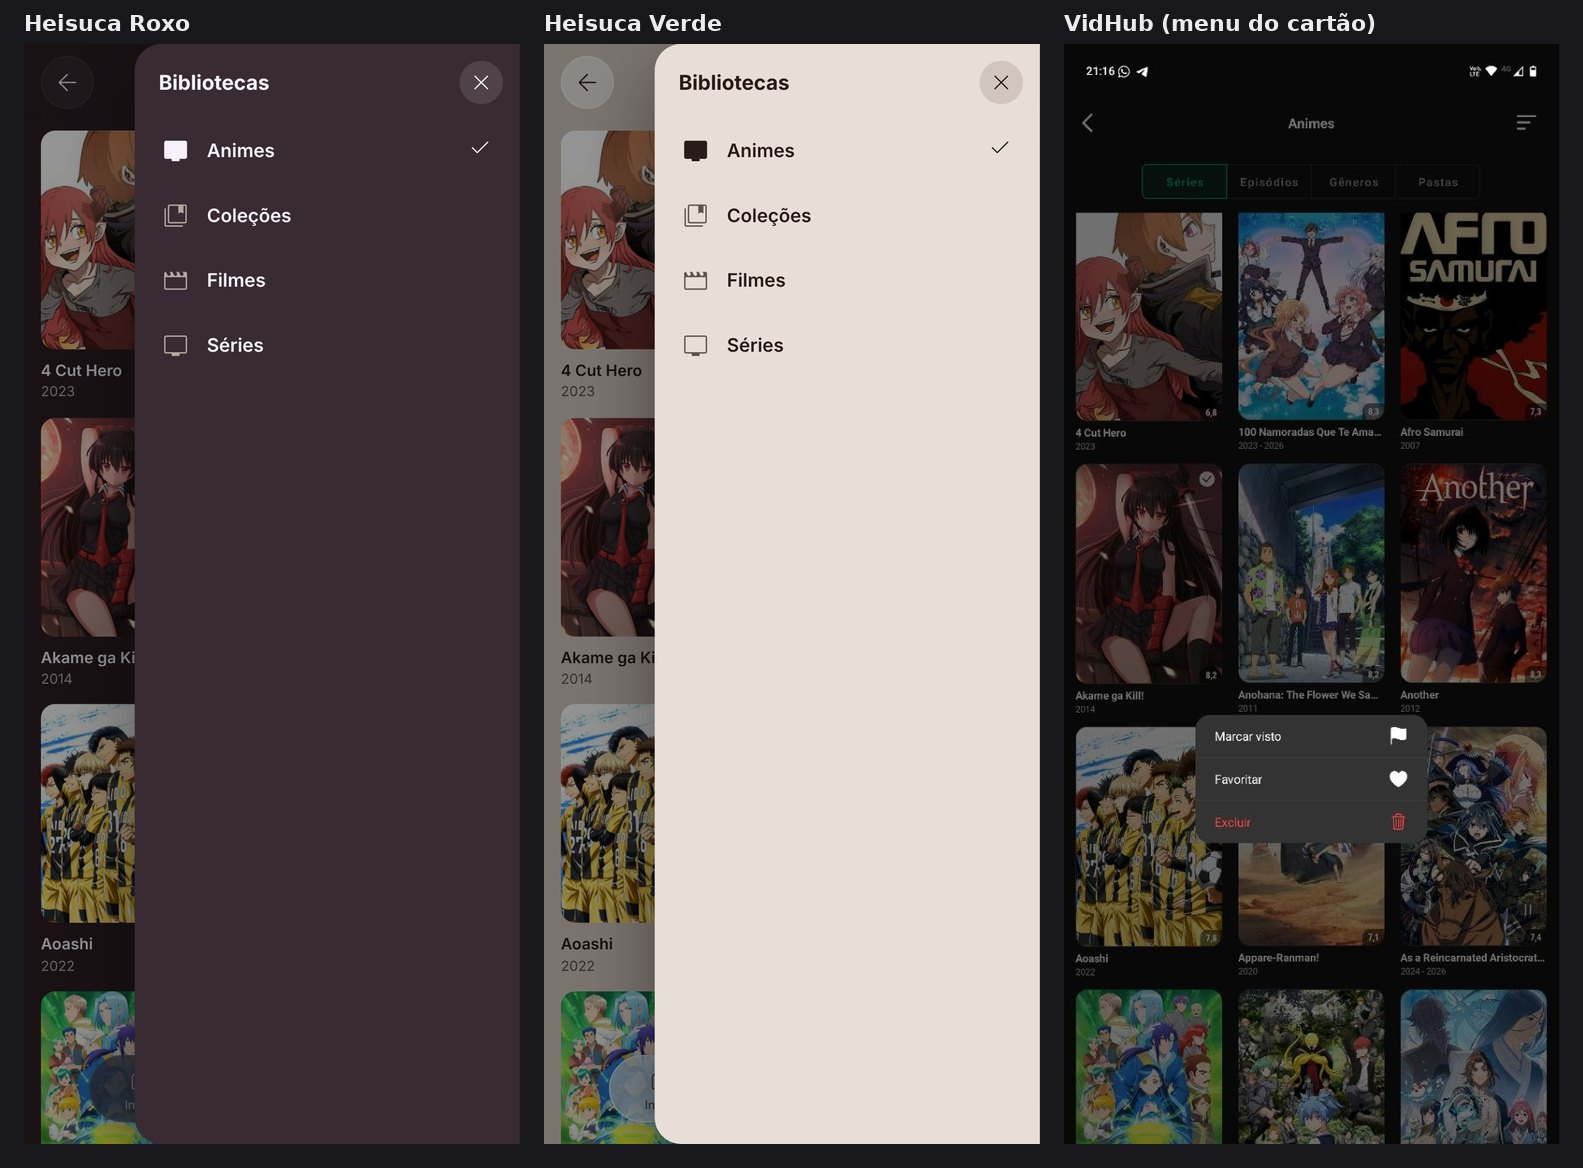
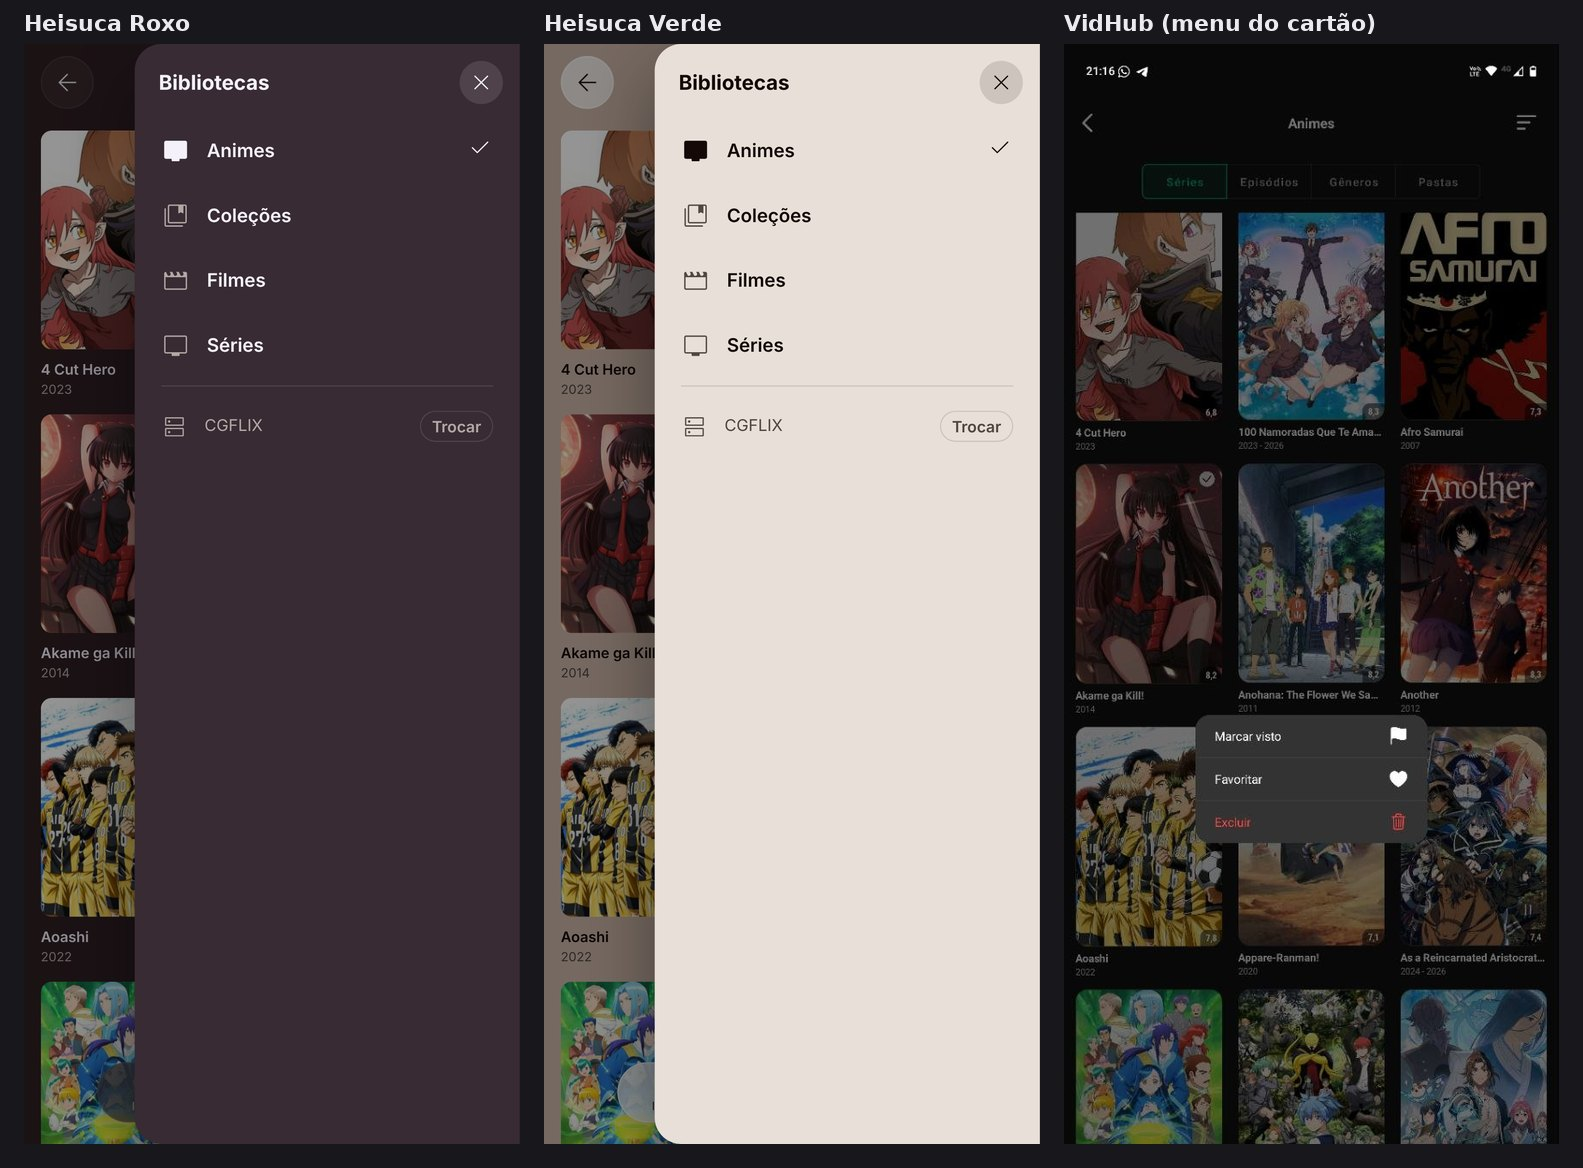
Site v2 (C): menu lateral da Biblioteca termina com o servidor atual e Trocar
Pedido do Caio (18/10): a Biblioteca abriga as bibliotecas e a troca de servidor.
A linha abre o Trocar servidor da fundação (abrirServidores).

Claude-Session: https://claude.ai/code/session_012Kski8vuAybihC8nTxmTeD

diff --git a/apps/web/src/telas/Biblioteca.tsx b/apps/web/src/telas/Biblioteca.tsx
@@ -8,6 +8,7 @@ import { usePaleta } from '../cor/paleta';
 import { CartaoPoster, EsqueletoCartoes } from '../comp/Cartoes';
 import { Folha } from '../comp/Folha';
 import { Icone } from '../comp/Icone';
+import { abrirServidores } from '../estado/casca';
 import { irAba, irTitulo, lembrarBiblioteca, ultimaBiblioteca, voltar } from '../rota';
 import './biblioteca.css';
 
@@ -55,6 +56,16 @@ export function Biblioteca({ s, id }: { s: Sessao; id?: string }) {
               </button>
             </li>
           ))}
+          {/* por último, discreto: o servidor atual e "Trocar" (Caio 18/10: a Biblioteca abriga as libs e a troca de servidor) */}
+          <li><hr class="separador" /></li>
+          <li>
+            <button class="opcao-linha biblioteca-servidor" onClick={() => { setMenu(false); setTimeout(abrirServidores, 220); }}
+              aria-label={`Servidor ${s.nomeServidor || ''}. Trocar de servidor`}>
+              <Icone nome="dns" tamanho={22} />
+              <span class="opcao-texto"><small class="uma-linha">{s.nomeServidor || 'Servidor'}</small></span>
+              <span class="biblioteca-trocar">Trocar</span>
+            </button>
+          </li>
         </ul>
       </Folha>
     </main>

diff --git a/apps/web/src/telas/biblioteca.css b/apps/web/src/telas/biblioteca.css
@@ -12,6 +12,9 @@
 .biblioteca-sentinela { height: 1px; }
 .biblioteca-menu .opcao-linha .icone { color: var(--hs-texto-2); }
 .biblioteca-menu .opcao-linha[aria-current] .icone { color: var(--hs-texto); }
+.biblioteca-servidor { min-height: 46px; }
+.biblioteca-servidor .opcao-texto small { font-size: 13.5px; }
+.biblioteca-trocar { font-size: 13px; font-weight: 600; color: var(--hs-texto-2); padding: 4px 10px; border-radius: var(--hs-raio-total); box-shadow: inset 0 0 0 1px var(--hs-linha); }
 @media (min-width: 600px) {
   .biblioteca-topo { grid-template-columns: 44px 1fr 44px; }
   .biblioteca-topo h1 { font-size: 19px; }

diff --git a/apps/web/testes/prints_c.py b/apps/web/testes/prints_c.py
@@ -29,6 +29,7 @@ CENAS = [
     ("alien_topo", f"#/t/{ALIEN}", []),
     ("biblioteca", f"#/b/{ANIMES}", []),
     ("biblioteca_menu", f"#/b/{ANIMES}", [("clicar", ".biblioteca-topo .redondo:last-child")]),
+    ("biblioteca_trocar", f"#/b/{ANIMES}", [("clicar", ".biblioteca-topo .redondo:last-child"), ("clicar", ".biblioteca-servidor"), ("esperar", 0.6)]),
     ("biblioteca_rolada", f"#/b/{ANIMES}", [("rolar", 99999), ("esperar", 1.5), ("rolar", 99999)]),
     ("biblioteca_sem_id", "#/b", []),
 ]

diff --git a/apps/web/relatorios/c.md b/apps/web/relatorios/c.md
@@ -26,6 +26,8 @@
 
 **Biblioteca** (`src/telas/Biblioteca.tsx`, `biblioteca.css`), rota `#/b/<id>`:
 - Topo `← | nome | ☰`; o ☰ abre o **menu lateral direito** com as bibliotecas de vídeo (ícone por tipo, ✓ na atual) e troca direto.
+- O menu lateral termina com uma linha discreta do servidor atual (`dns` + nome que o servidor informa + "Trocar"), que abre o
+  "Trocar servidor" da fundação (`abrirServidores()`), conforme o pedido do Caio de 18/10 repassado pela sessão principal.
 - Sem abas e sem ordenar/filtrar: ordem alfabética (`daBiblioteca`). Grade 2:3 em 3 colunas no celular, `auto-fill` no
   computador (8 colunas a 1440 px); nota, ✓ visto, título + anos (o `CartaoPoster` da fundação, com botão direito).
 - Carrega de 60 em 60 ao rolar (IntersectionObserver com folga de 900 px); para no total ou numa página vazia/curta.
@@ -41,7 +43,7 @@
   - `cel_titulo_topo.jpg` (× `vidhub/…foto42`), `cel_titulo_rolado.jpg` (× `…foto43`), `cel_titulo_temporada.jpg`
     (seletor aberto, Deadwood e One Piece × o reprovado `…foto72`), `cel_titulo_baixo.jpg` (elenco/Info mídia × `…foto71`),
     `cel_titulo_outros.jpg`, `cel_titulo_filme_colecao.jpg`, `cel_titulo_vertudo.jpg`;
-  - `cel_biblioteca.jpg` (× `…foto50`), `cel_biblioteca_menu.jpg` (menu lateral × `…foto51`);
+  - `cel_biblioteca.jpg` (× `…foto50`), `cel_biblioteca_menu.jpg` (menu lateral × `…foto51`), `cel_biblioteca_trocar.jpg` (linha do servidor e o Trocar servidor aberto);
   - `desk_{roxo,verde}_*.jpg`: título topo, rolado, temporada aberta, baixo, filme, coleção, biblioteca e menu lateral.
 - Teclado no computador: tudo é botão; as folhas prendem o foco e fecham no Esc; o foco volta para quem abriu.
 
@@ -84,4 +86,5 @@
 - `src/comp/Folha.tsx` + `folha.css`: **acrescentei** a variante `'lateral'` (menu que entra pela direita). Nada do que existia mudou.
 - `src/comp/Icone.tsx`: acrescentei `videocam` e `music_note` no glob.
 - `src/api/jellyfin.ts`: acrescentei `daColecao` (filhos de um BoxSet em ordem de lançamento).
+- Rebase no `site-v2` atual (f17be63); o único conflito foi em `app.tsx` (a linha do Favoritos da sessão B), resolvido mantendo as duas.
 - `testes/prints_c.py` (novo): prints com ações por cena (rolar, clicar), com espera da transição.
